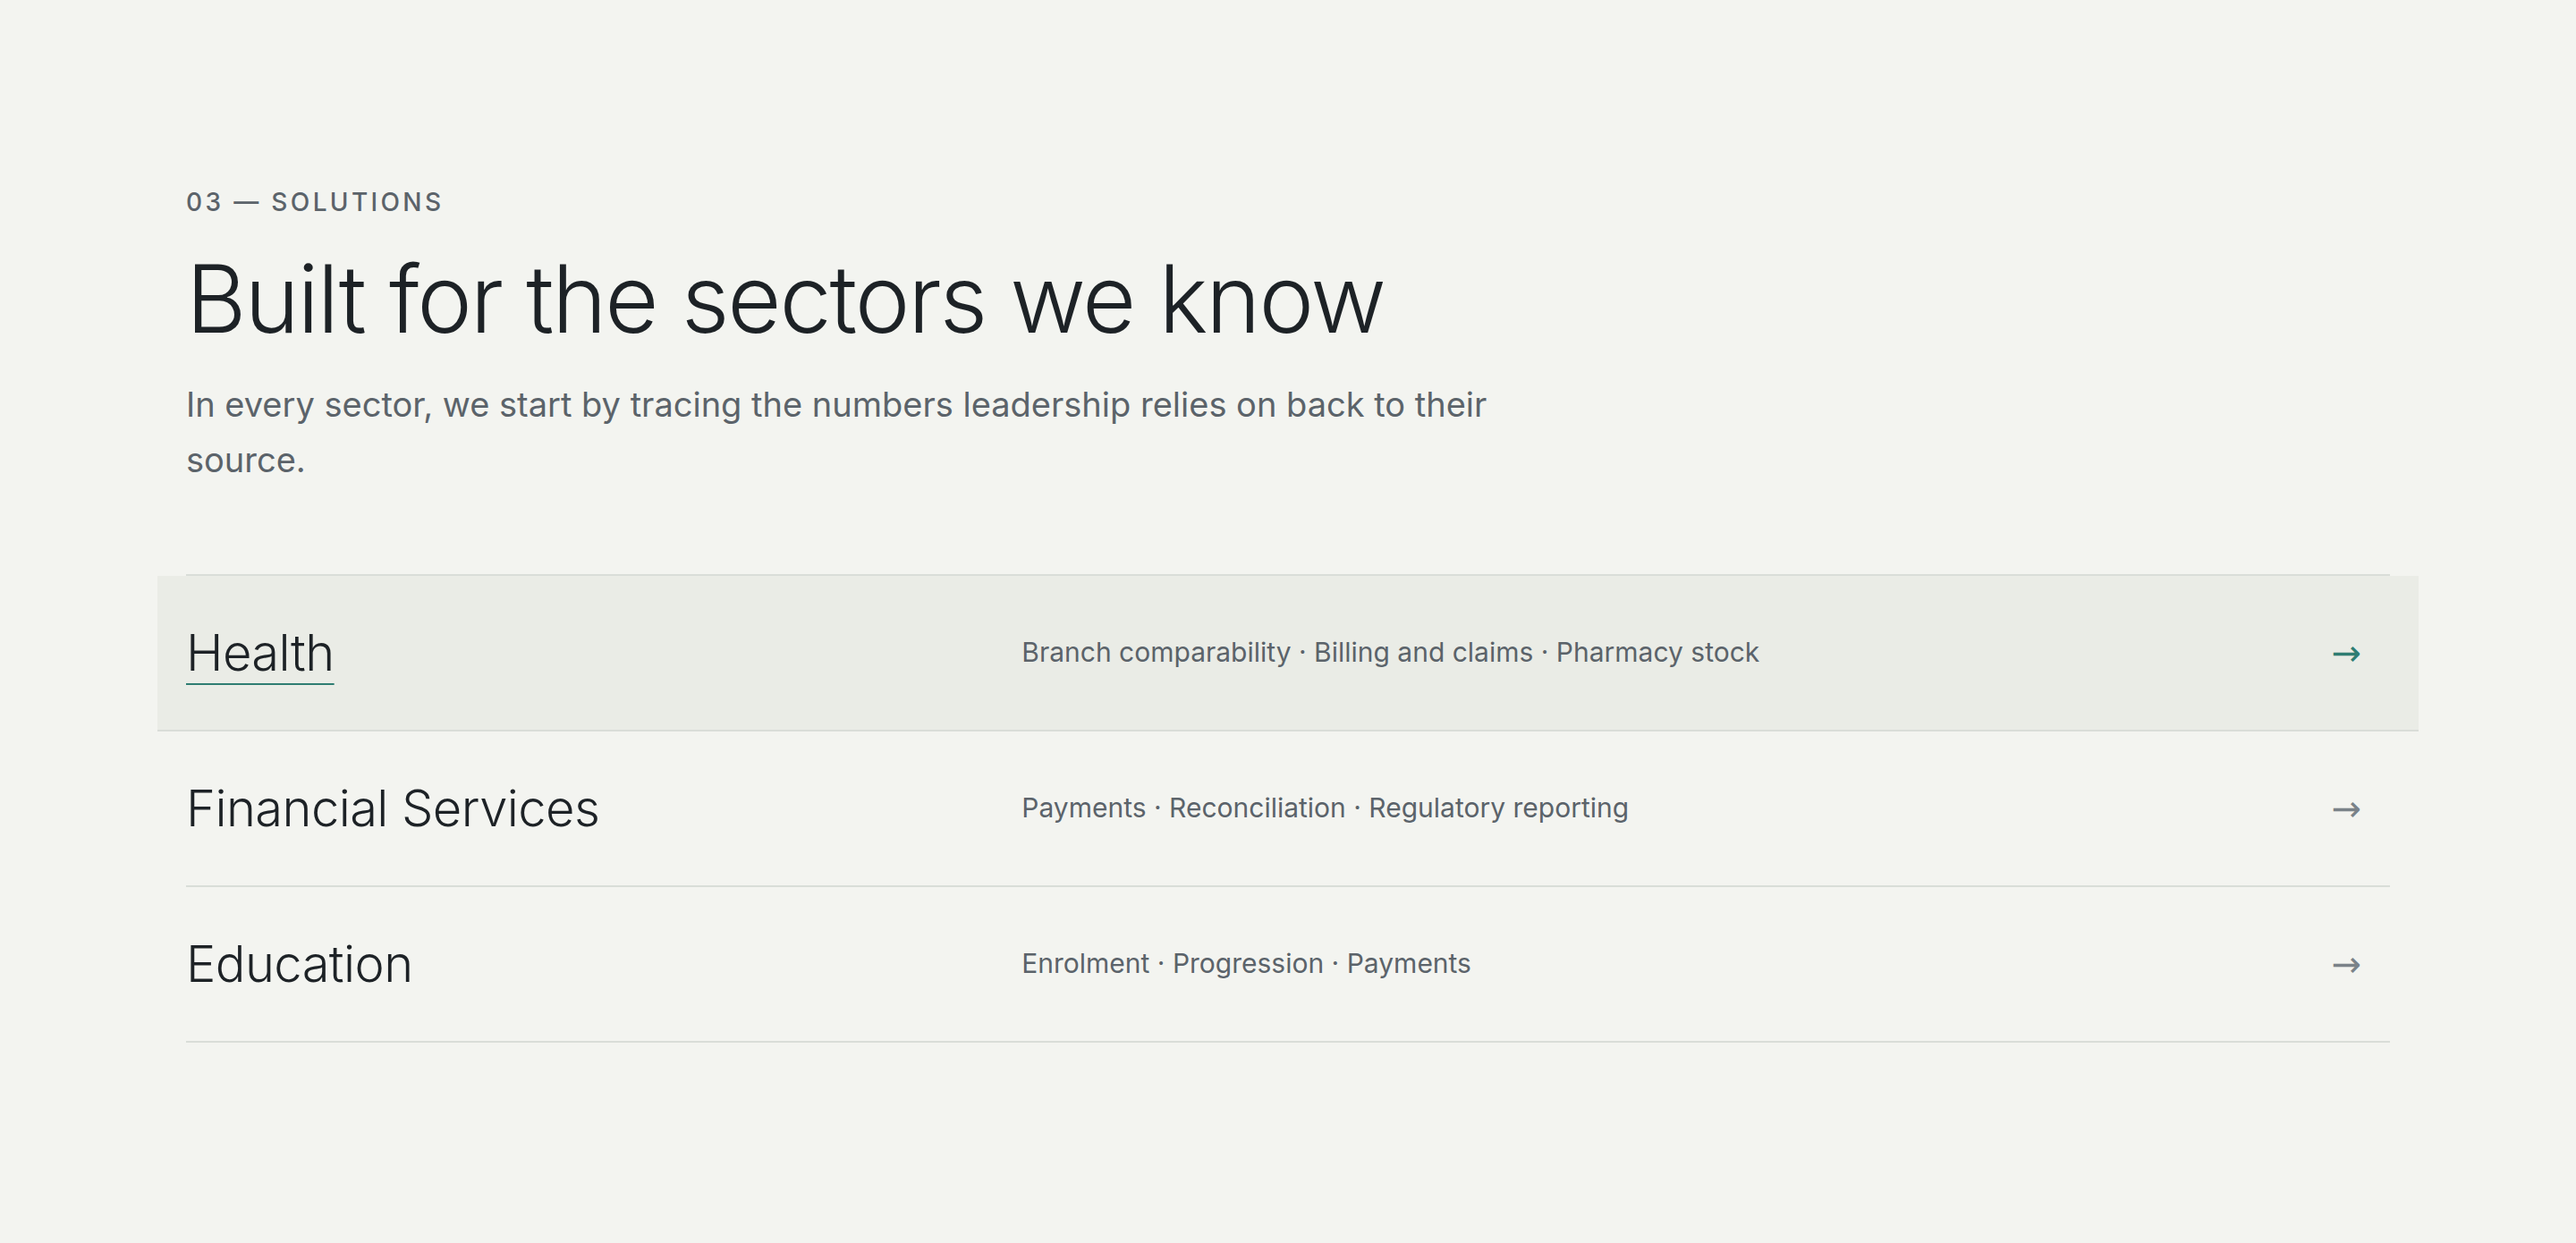
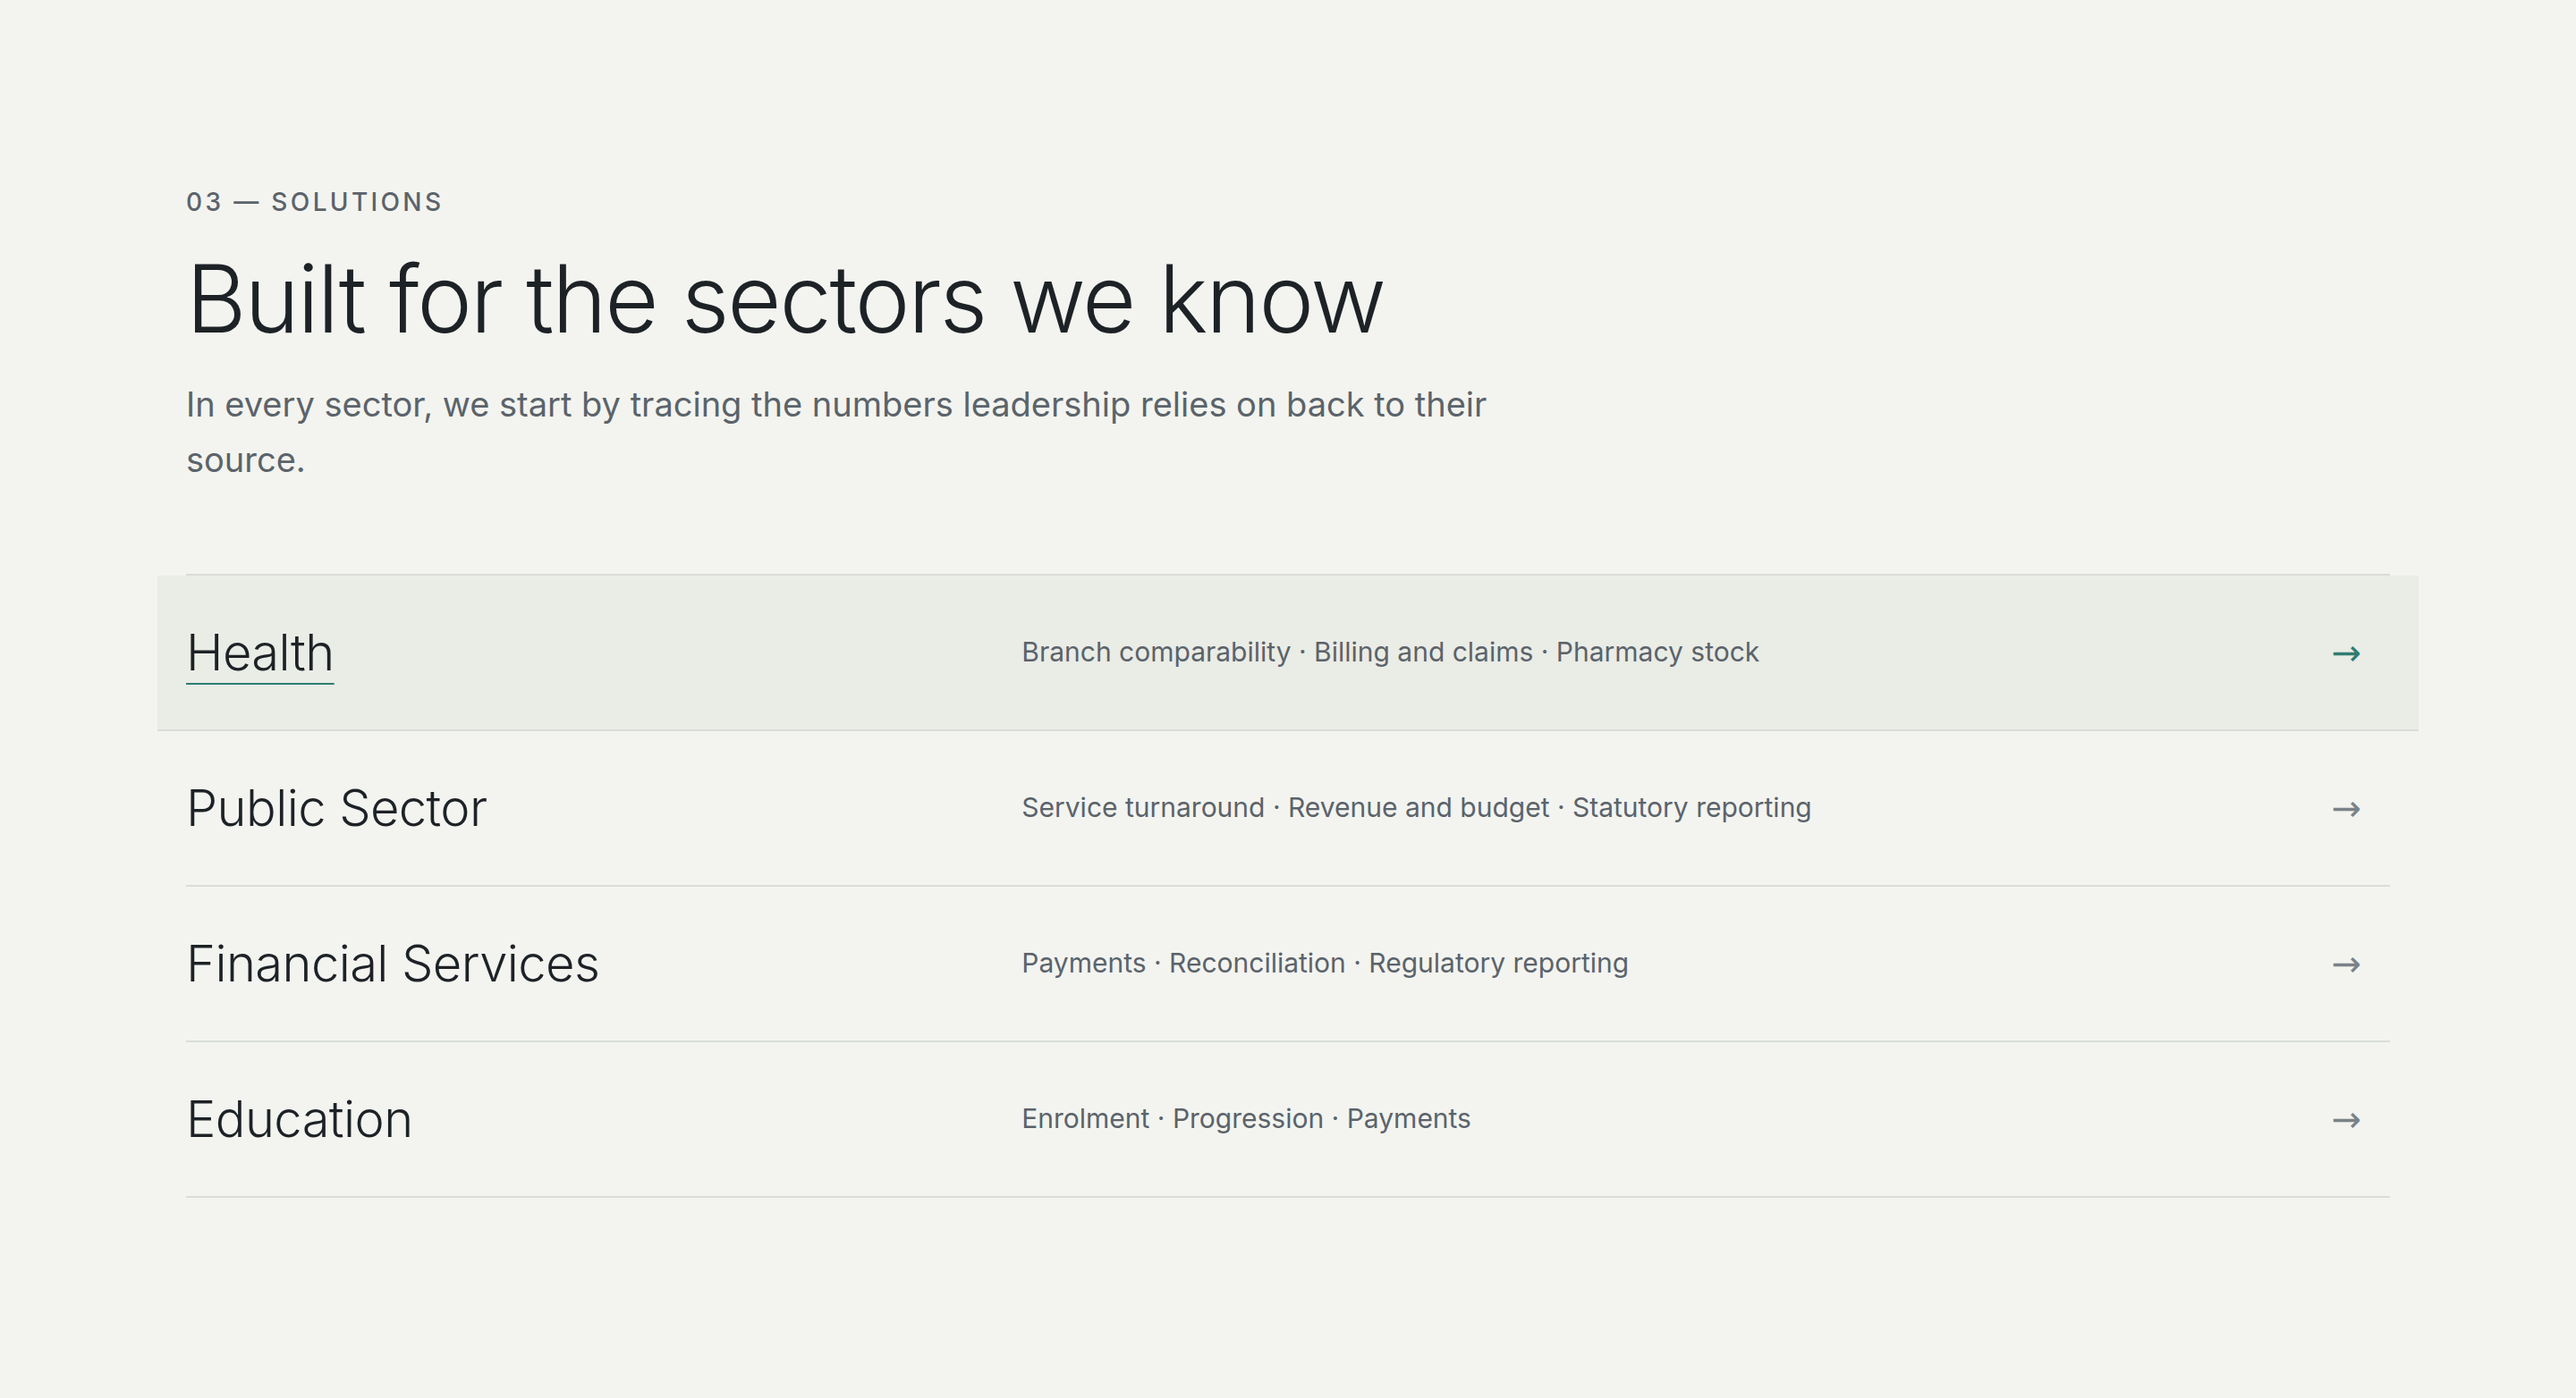
Add the owner's amendment to section A: Public Sector as a fourth featured sector, and its updated reference image (#95)

diff --git a/_docs/fafanua-homepage-sections-refinement-plan.md b/_docs/fafanua-homepage-sections-refinement-plan.md
@@ -34,7 +34,7 @@ The sections in this plan use the same visual language as those plans: hairlines
 
 ## 2. Precedence
 
-1. **Section A** supersedes `_docs/plan-fafanua-services-positioning.md` on the homepage Solutions section only: the heading, the intro line, the row presentation, the removal of numbers and accordions, and the tag lines. It amends W7 in the Trust and Lineage plan (removing "Lineage" from the tags). Sector names and their order stay as W7 set them.
+1. **Section A** supersedes `_docs/plan-fafanua-services-positioning.md` on the homepage Solutions section only: the heading, the intro line, the row presentation, the removal of numbers and accordions, and the tag lines. It amends W7 in the Trust and Lineage plan (removing "Lineage" from the tags). It also adds Public Sector as a fourth featured sector (owner decision, 2026-10-23), amending W7's list and order.
 2. **Section B** supersedes `_docs/plan.md` and `_docs/fafanua-v2-refinement-plan.md` on How We Work: the heading, the Assess description and output, one word in Govern, the output labels, the stage band, the track and the highlight behaviour. The four step names and their order stay. Section B **replaces G2** in the Trust and Lineage plan. Do not implement G2.
 3. **Section C** supersedes `_docs/fafanua-v2-refinement-plan.md` on the future-ready section's layout, and supersedes W5's copy in the Trust and Lineage plan. The dark background with the technical grid stays.
 4. **Section D** supersedes `_docs/fafanua-v2-refinement-plan.md` on the About section's composition. W8 (the founder block) is **deferred**, not cancelled. Leave room for it to return later, but do not build it now.
@@ -62,7 +62,8 @@ The sections in this plan use the same visual language as those plans: hairlines
 | Eyebrow | 03 — SOLUTIONS | Unchanged |
 | Heading | Built for the sectors we know | New, replaces "Solutions" |
 | Intro line | In every sector, we start by tracing the numbers leadership relies on back to their source. | New |
-| Rows | Health; Financial Services; Education | Unchanged, in this order |
+| Rows | Health; Public Sector; Financial Services; Education | Amended: Public Sector added, in this order |
+| Public Sector tags | Service turnaround · Revenue and budget · Statutory reporting | New |
 | Health tags | Branch comparability · Billing and claims · Pharmacy stock | Amended: "Lineage" removed |
 | Financial Services tags | Payments · Reconciliation · Regulatory reporting | Amended: "Lineage" removed |
 | Education tags | Enrolment · Progression · Payments | Amended: "Lineage" removed |
@@ -72,7 +73,7 @@ The sections in this plan use the same visual language as those plans: hairlines
 ### Layout
 
 - Paper background. The eyebrow, heading (weight 300) and intro line (muted token) are left-aligned.
-- Three full-width rows separated by hairlines, with one hairline above the first row.
+- Four full-width rows separated by hairlines, with one hairline above the first row.
 - Each row shows the sector name (large, weight 300) on the left, the tags (muted, separated by " · ") in the middle, and a muted "→" on the right.
 - Each row is one link to that sector's landing page. Use a stretched link so the whole row is clickable, with the sector name as the link text.
 - **Hover and focus:** the row gets a subtle tint (a surface token one step from paper), the sector name gets a 1px teal underline, and the arrow turns teal. Keyboard focus also shows the standard focus ring.
@@ -81,7 +82,8 @@ The sections in this plan use the same visual language as those plans: hairlines
 ### Do first
 
 1. Check what each accordion currently contains. If any of it is missing from that sector's landing page, add it there first without changing the wording.
-2. Confirm all three landing page routes exist and match the SEO plan. If any sector has no landing page, stop and report it.
+2. Confirm all four landing page routes exist and match the SEO plan. If any sector has no landing page, stop and report it. The Public Sector row links to the page built under `_docs/fafanua-public-sector-landing-page-plan.md`.
+4. Remove Public Sector Data & Analytics from the footer's "More sectors" line, since it is now featured. The line keeps its other links.
 3. Report any keyword the SEO plan assigns to the homepage that the removed accordion text or the removed "Lineage" tags carried.
 
 ### Semantics
@@ -224,7 +226,8 @@ In the design system, record any new verified pairs or hover-tint tokens.
 
 ### Section A
 - [ ] The heading, intro line and amended tags match section 4 exactly. There are no row numbers, accordions or chevrons.
-- [ ] Each row links to its sector's landing page, and no accordion content was lost.
+- [ ] There are four rows in the order Health, Public Sector, Financial Services, Education, each linking to its sector's landing page, and no accordion content was lost.
+- [ ] The footer's "More sectors" line no longer lists Public Sector.
 - [ ] Hover and focus show the tint, teal underline, teal arrow and a visible focus ring.
 
 ### Section B
